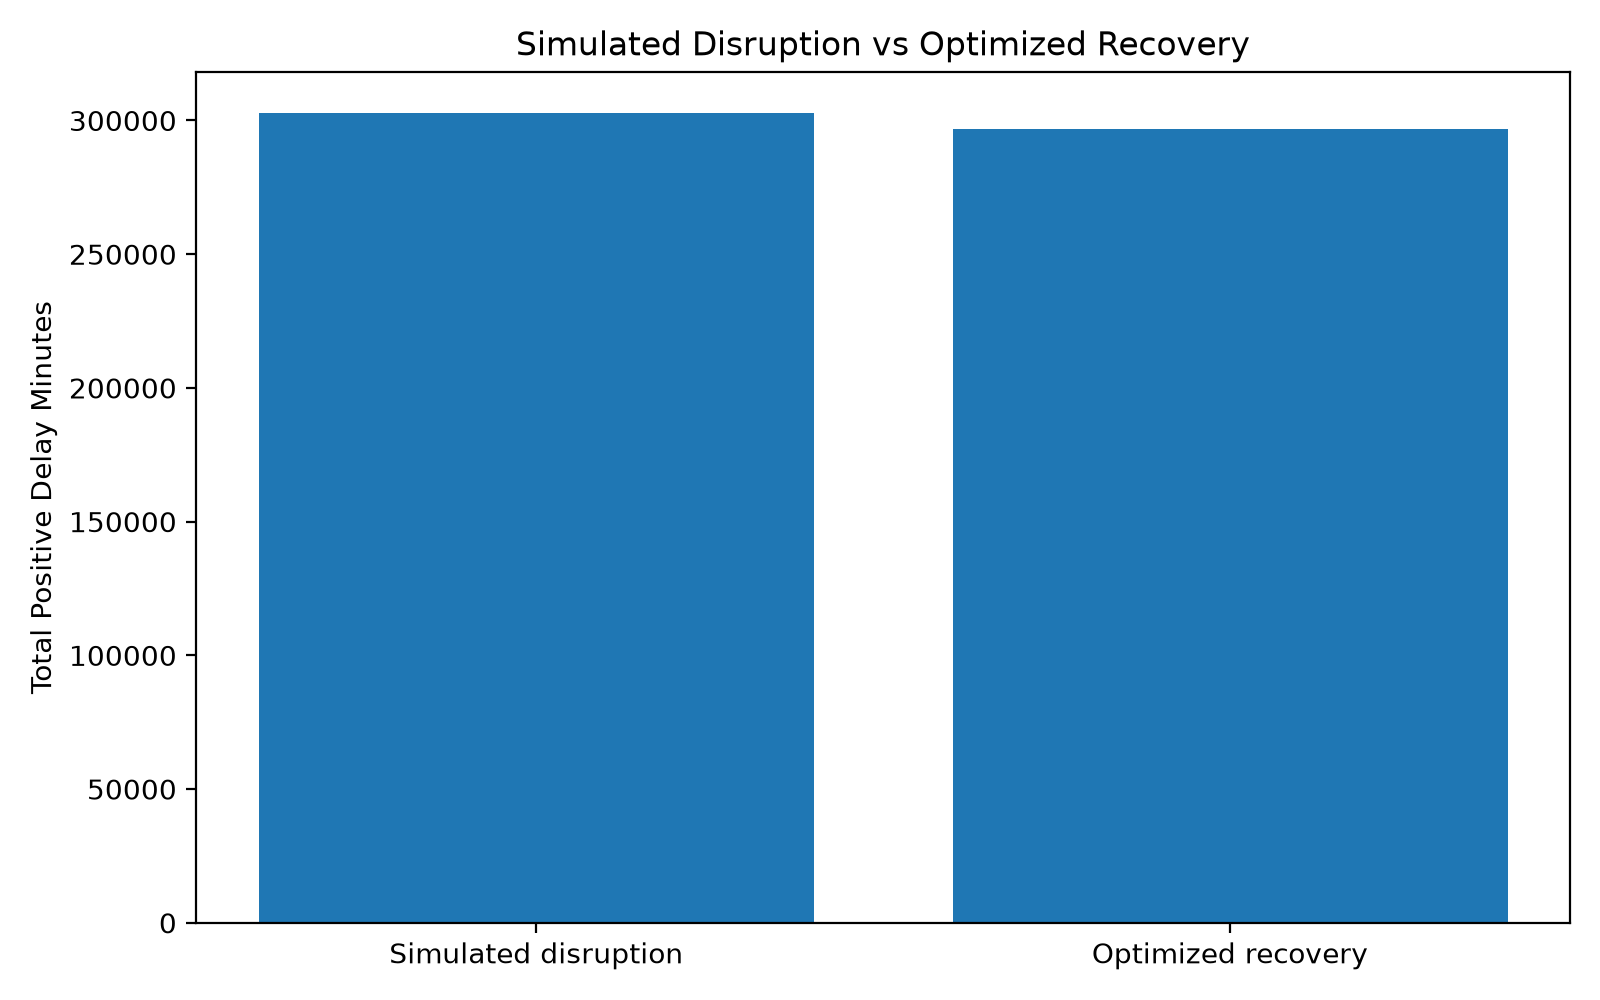
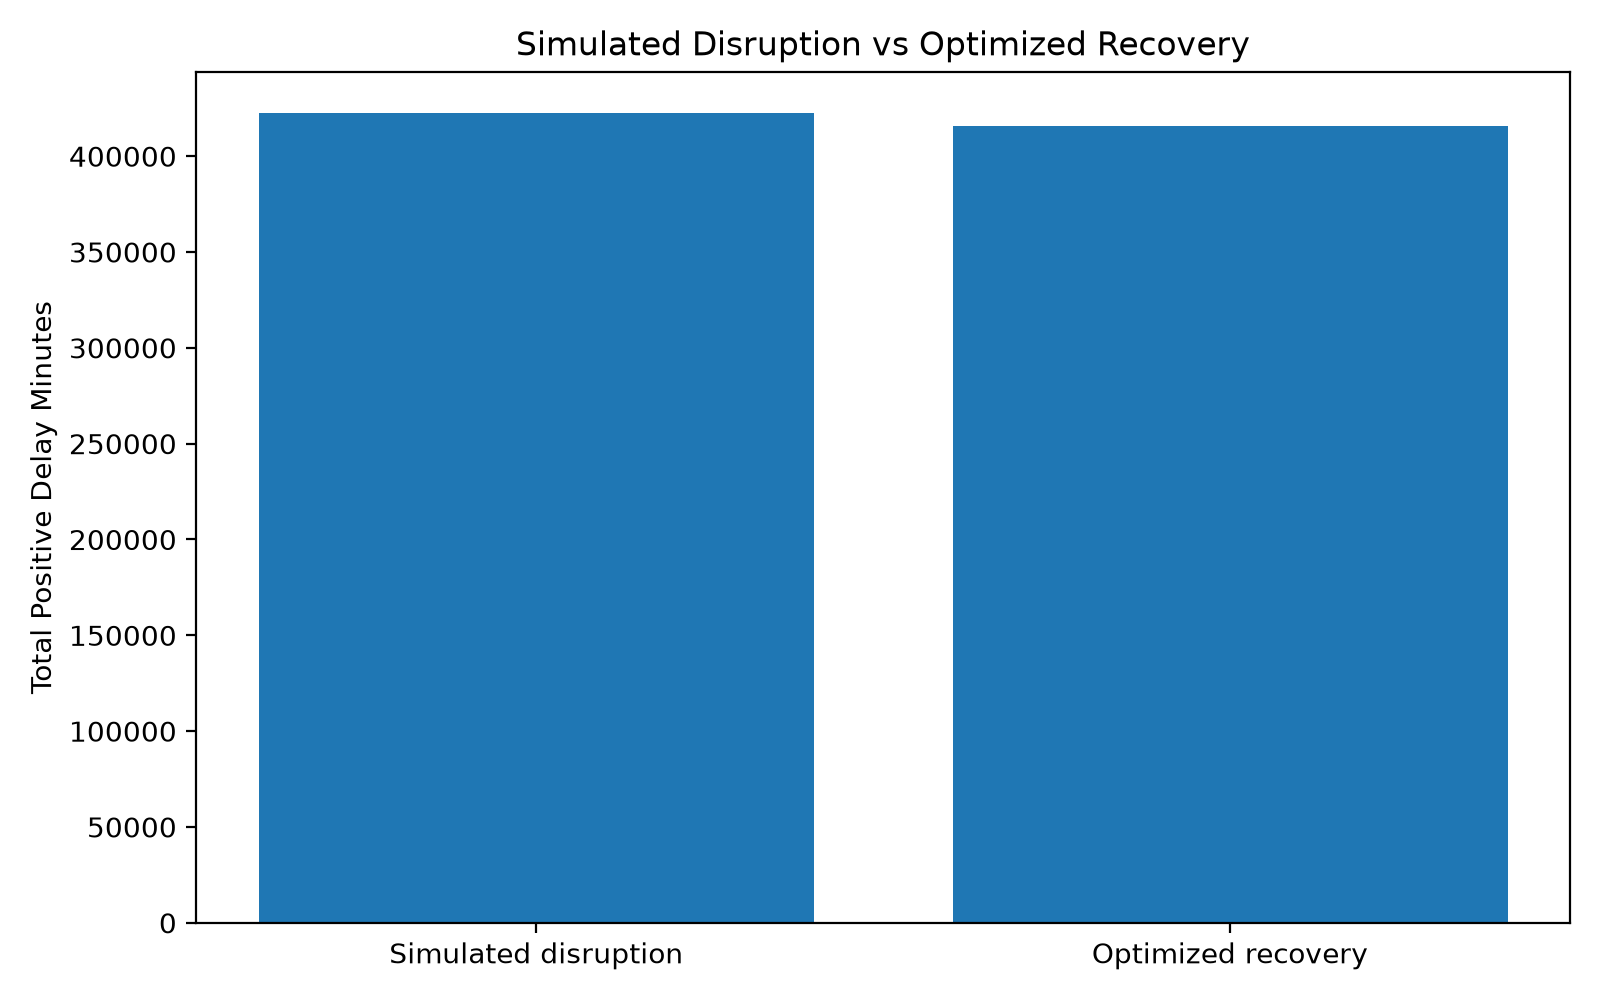
Update simulation and optimization outputs

diff --git a/reports/recovery_optimization_report.md b/reports/recovery_optimization_report.md
@@ -7,61 +7,61 @@ The recovery optimizer selects a limited number of disrupted flights to prioriti
 ## Optimization Summary
 
 - Solver status: Optimal
-- Candidate flights: 6,224
+- Candidate flights: 6,628
 - Max recovery actions allowed: 120
 - Recovery actions used: 120
 - Primary actions used: 48
 - Downstream actions used: 72
-- Simulated total positive delay: 302,982.00 minutes
-- Optimized total positive delay: 296,934.00 minutes
-- Total recovered delay: 6,048.00 minutes
-- Delay reduction: 2.0%
+- Simulated total positive delay: 422,787.00 minutes
+- Optimized total positive delay: 415,731.00 minutes
+- Total recovered delay: 7,056.00 minutes
+- Delay reduction: 1.67%
 
 ## Impact by Scenario Stage
 
 | scenario_stage             |   candidate_flights |   recovery_actions |   recovered_delay |   remaining_delay |
 |:---------------------------|--------------------:|-------------------:|------------------:|------------------:|
-| downstream_propagation     |                5867 |                 72 |              3024 |            264499 |
-| primary_airport_disruption |                 357 |                 48 |              3024 |             32435 |
+| downstream_propagation     |                6150 |                 72 |              3024 |            357441 |
+| primary_airport_disruption |                 478 |                 48 |              4032 |             58290 |
 
 ## Recovery Actions by Carrier
 
 | carrier   |   recovery_actions |   recovered_delay |
 |:----------|-------------------:|------------------:|
-| UA        |                 32 |              1911 |
-| WN        |                 29 |              1491 |
-| AA        |                 28 |              1218 |
-| DL        |                 25 |              1113 |
-| F9        |                  2 |               126 |
-| B6        |                  1 |                63 |
-| AS        |                  1 |                42 |
-| G4        |                  1 |                42 |
-| OO        |                  1 |                42 |
+| UA        |                 42 |              2772 |
+| WN        |                 15 |              1260 |
+| AS        |                 20 |               840 |
+| DL        |                 16 |               840 |
+| B6        |                 13 |               630 |
+| AA        |                  9 |               462 |
+| HA        |                  3 |               126 |
+| F9        |                  1 |                84 |
+| NK        |                  1 |                42 |
 
 ## Top Flights Selected for Recovery
 
 | carrier   |   flight_num | origin   | dest   | scenario_stage             |   simulated_positive_delay |   delay_increase |   optimized_recovered_delay |   priority_score |
 |:----------|-------------:|:---------|:-------|:---------------------------|---------------------------:|-----------------:|----------------------------:|-----------------:|
-| AA        |          395 | DEN      | MIA    | primary_airport_disruption |                         95 |               90 |                          63 |            74.49 |
-| UA        |          470 | DEN      | SRQ    | primary_airport_disruption |                         93 |               90 |                          63 |            74.1  |
-| UA        |          424 | DEN      | RSW    | primary_airport_disruption |                         90 |               90 |                          63 |            74.3  |
-| UA        |          384 | DEN      | HNL    | primary_airport_disruption |                         90 |               90 |                          63 |            75.57 |
-| UA        |          350 | DEN      | TPA    | primary_airport_disruption |                         90 |               90 |                          63 |            74.04 |
-| UA        |          283 | DEN      | FLL    | primary_airport_disruption |                         90 |               90 |                          63 |            74.48 |
-| WN        |         1941 | DEN      | ALB    | primary_airport_disruption |                         95 |               90 |                          63 |            74.32 |
-| WN        |         3473 | DEN      | BOS    | primary_airport_disruption |                         92 |               90 |                          63 |            74.63 |
-| WN        |         3515 | DEN      | BOS    | primary_airport_disruption |                        144 |               90 |                          63 |            74.63 |
-| WN        |          496 | DEN      | BWI    | primary_airport_disruption |                         90 |               90 |                          63 |            74    |
-| WN        |         2701 | DEN      | FLL    | primary_airport_disruption |                         90 |               90 |                          63 |            74.48 |
-| WN        |          651 | DEN      | LGA    | primary_airport_disruption |                         90 |               90 |                          63 |            74.34 |
-| WN        |         3367 | DEN      | LGA    | primary_airport_disruption |                         90 |               90 |                          63 |            74.34 |
-| WN        |          440 | DEN      | MCO    | primary_airport_disruption |                         90 |               90 |                          63 |            74.12 |
-| WN        |          671 | DEN      | MCO    | primary_airport_disruption |                         90 |               90 |                          63 |            74.12 |
-| WN        |         6391 | DEN      | MCO    | primary_airport_disruption |                         90 |               90 |                          63 |            74.12 |
-| WN        |         1387 | DEN      | SRQ    | primary_airport_disruption |                         90 |               90 |                          63 |            74.1  |
-| WN        |         2727 | DEN      | TPA    | primary_airport_disruption |                         90 |               90 |                          63 |            74.04 |
-| DL        |          751 | DEN      | LGA    | primary_airport_disruption |                         90 |               90 |                          63 |            74.34 |
-| DL        |         2537 | DEN      | BOS    | primary_airport_disruption |                         90 |               90 |                          63 |            74.63 |
+| AA        |          395 | DEN      | MIA    | primary_airport_disruption |                        125 |              120 |                          84 |            98.97 |
+| UA        |          558 | DEN      | BOS    | primary_airport_disruption |                        120 |              120 |                          84 |            99.16 |
+| UA        |          424 | DEN      | RSW    | primary_airport_disruption |                        120 |              120 |                          84 |            98.71 |
+| UA        |          384 | DEN      | HNL    | primary_airport_disruption |                        120 |              120 |                          84 |           100.75 |
+| UA        |          283 | DEN      | FLL    | primary_airport_disruption |                        120 |              120 |                          84 |            98.96 |
+| WN        |         1941 | DEN      | ALB    | primary_airport_disruption |                        125 |              120 |                          84 |            98.74 |
+| WN        |          368 | DEN      | BDL    | primary_airport_disruption |                        135 |              120 |                          84 |            98.91 |
+| WN        |         3473 | DEN      | BOS    | primary_airport_disruption |                        122 |              120 |                          84 |            99.16 |
+| WN        |         3515 | DEN      | BOS    | primary_airport_disruption |                        174 |              120 |                          84 |            99.16 |
+| WN        |         2701 | DEN      | FLL    | primary_airport_disruption |                        120 |              120 |                          84 |            98.96 |
+| WN        |          651 | DEN      | LGA    | primary_airport_disruption |                        120 |              120 |                          84 |            98.78 |
+| WN        |         3367 | DEN      | LGA    | primary_airport_disruption |                        120 |              120 |                          84 |            98.78 |
+| WN        |          671 | DEN      | MCO    | primary_airport_disruption |                        120 |              120 |                          84 |            98.48 |
+| WN        |         1034 | DEN      | MCO    | primary_airport_disruption |                        156 |              120 |                          84 |            98.48 |
+| WN        |         6391 | DEN      | MCO    | primary_airport_disruption |                        120 |              120 |                          84 |            98.48 |
+| WN        |         1489 | DEN      | ORF    | primary_airport_disruption |                        120 |              120 |                          84 |            98.51 |
+| WN        |         2225 | DEN      | PHL    | primary_airport_disruption |                        126 |              120 |                          84 |            98.52 |
+| WN        |         2117 | DEN      | PVD    | primary_airport_disruption |                        132 |              120 |                          84 |            99.04 |
+| WN        |         1153 | DEN      | RSW    | primary_airport_disruption |                        120 |              120 |                          84 |            98.71 |
+| DL        |          751 | DEN      | LGA    | primary_airport_disruption |                        120 |              120 |                          84 |            98.78 |
 
 ## Interpretation
 

diff --git a/reports/disruption_simulation_report.md b/reports/disruption_simulation_report.md
@@ -4,51 +4,51 @@
 
 - Airport disrupted: DEN
 - Date: 2025-01-02
-- Disruption window: 8:00-14:00
-- Primary added delay: 90 minutes
-- Propagation window: 6 hours
+- Disruption window: 7:00-16:00
+- Primary added delay: 120 minutes
+- Propagation window: 8 hours
 
 ## Impact Summary
 
-- Primary impacted flights: 357
-- Downstream impacted flights: 5,867
-- Total impacted flights: 6,224
-- Baseline total positive delay: 80,284.00 minutes
-- Simulated total positive delay: 302,982.00 minutes
-- Total delay increase: 222,698.00 minutes
-- Average delay increase per impacted flight: 35.78 minutes
+- Primary impacted flights: 478
+- Downstream impacted flights: 6,150
+- Total impacted flights: 6,628
+- Baseline total positive delay: 100,735.00 minutes
+- Simulated total positive delay: 422,787.00 minutes
+- Total delay increase: 322,052.00 minutes
+- Average delay increase per impacted flight: 48.59 minutes
 
 ## Impact by Stage
 
 | scenario_stage             |   impacted_flights |   total_added_delay |   avg_added_delay |   total_delay_increase |
 |:---------------------------|-------------------:|--------------------:|------------------:|-----------------------:|
-| downstream_propagation     |               5867 |              190568 |           32.4813 |                 190568 |
-| primary_airport_disruption |                357 |               32130 |           90      |                  32130 |
+| downstream_propagation     |               6150 |              264692 |           43.0393 |                 264692 |
+| primary_airport_disruption |                478 |               57360 |          120      |                  57360 |
 
 ## Top Routes Affected
 
 | route      |   impacted_flights |   total_delay_increase |   avg_delay_increase |
 |:-----------|-------------------:|-----------------------:|---------------------:|
-| DEN -> PHX |                  9 |                    810 |                   90 |
-| DEN -> SLC |                  8 |                    720 |                   90 |
-| LAX -> SFO |                 12 |                    672 |                   56 |
-| PHX -> DEN |                 11 |                    660 |                   60 |
-| DEN -> BOS |                  7 |                    630 |                   90 |
-| DEN -> LAX |                  7 |                    630 |                   90 |
-| DEN -> DFW |                  7 |                    630 |                   90 |
-| LAX -> LAS |                 10 |                    560 |                   56 |
-| DEN -> SAN |                  6 |                    540 |                   90 |
-| DEN -> BNA |                  6 |                    540 |                   90 |
-| DEN -> SEA |                  6 |                    540 |                   90 |
-| DEN -> SFO |                  6 |                    540 |                   90 |
-| LAX -> PHX |                  9 |                    504 |                   56 |
-| PHX -> SEA |                  8 |                    480 |                   60 |
-| PHX -> LAX |                  8 |                    480 |                   60 |
-| SFO -> LAX |                 10 |                    480 |                   48 |
-| DEN -> DAL |                  5 |                    450 |                   90 |
-| DEN -> COS |                  5 |                    450 |                   90 |
-| DEN -> ASE |                  5 |                    450 |                   90 |
-| DEN -> AUS |                  5 |                    450 |                   90 |
+| DEN -> PHX |                 14 |                   1680 |                  120 |
+| DEN -> DFW |                 11 |                   1320 |                  120 |
+| DEN -> SLC |                 10 |                   1200 |                  120 |
+| DEN -> LAX |                 10 |                   1200 |                  120 |
+| DEN -> LAS |                 10 |                   1200 |                  120 |
+| DEN -> SFO |                  9 |                   1080 |                  120 |
+| DEN -> SAN |                  9 |                   1080 |                  120 |
+| DEN -> ORD |                  9 |                   1080 |                  120 |
+| DEN -> LGA |                  8 |                    960 |                  120 |
+| DEN -> MSP |                  8 |                    960 |                  120 |
+| DEN -> SEA |                  8 |                    960 |                  120 |
+| DEN -> ATL |                  8 |                    960 |                  120 |
+| DEN -> AUS |                  7 |                    840 |                  120 |
+| DEN -> MCO |                  7 |                    840 |                  120 |
+| DEN -> IAH |                  7 |                    840 |                  120 |
+| DEN -> BNA |                  7 |                    840 |                  120 |
+| DEN -> BOS |                  7 |                    840 |                  120 |
+| LAX -> LAS |                 13 |                    780 |                   60 |
+| LAX -> SFO |                 13 |                    780 |                   60 |
+| DEN -> ABQ |                  6 |                    720 |                  120 |
 
 ## Interpretation
 
